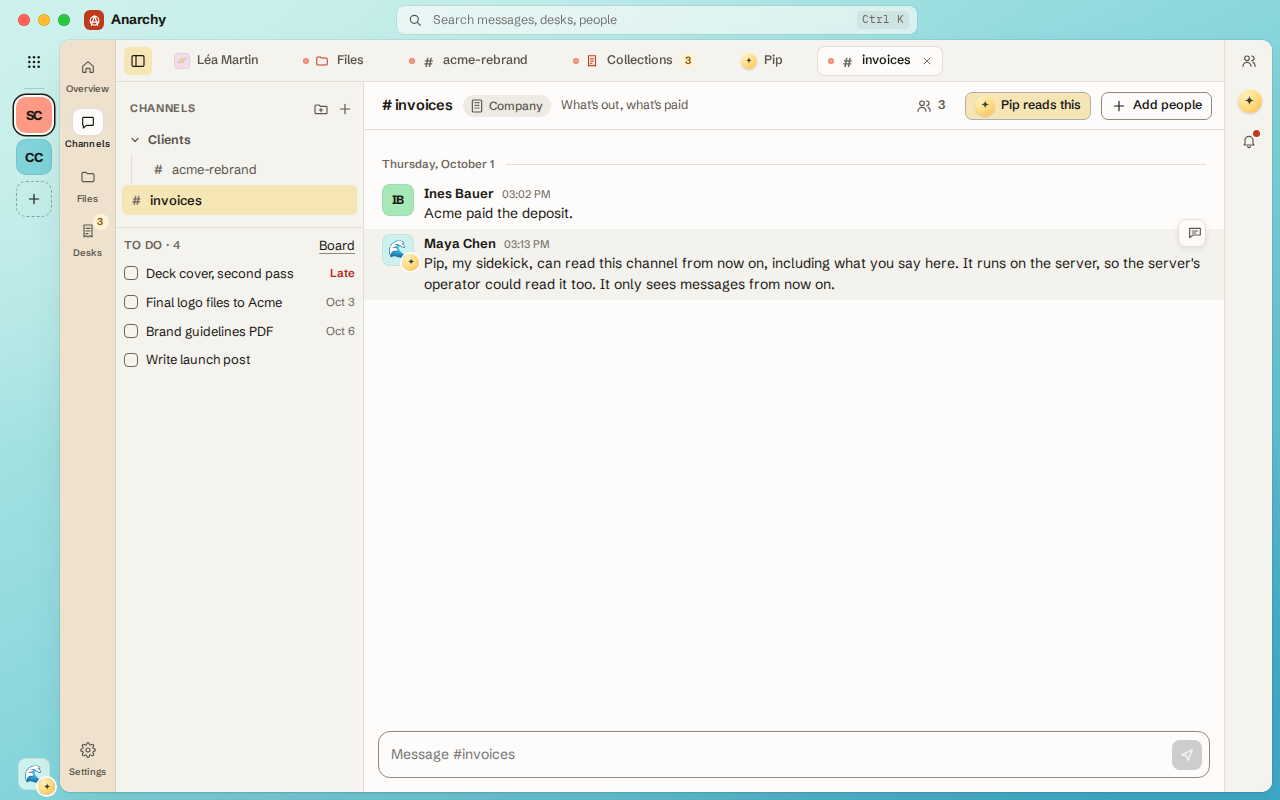
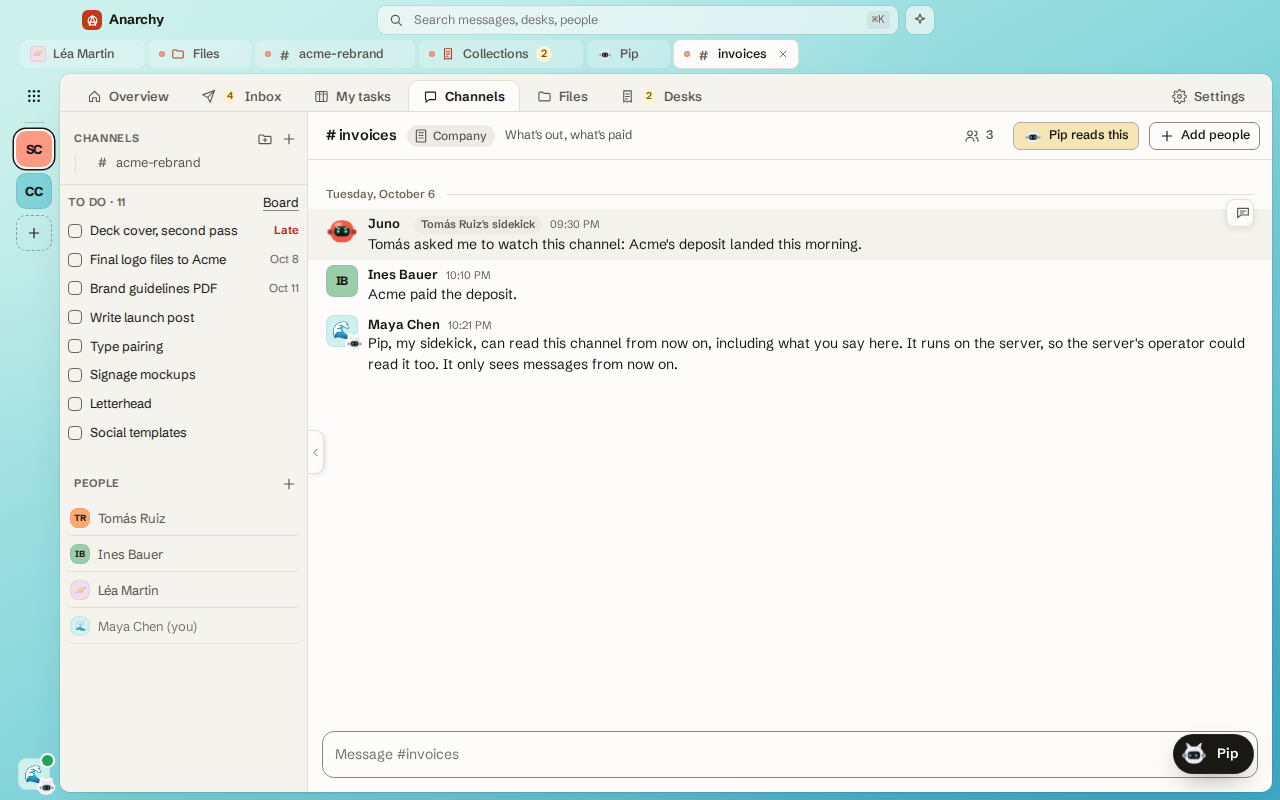
Tabs in the title bar, sidebar edge handle, connect card, Windows build
- Open tabs move into a second title-bar row that unfolds when a tab is
  open and folds away when none is; the old tab row in the canvas is gone.
- The sidebar opens and closes from a handle on its right edge (at the
  canvas edge when closed); Ctrl+\ does the same.
- Inbox uses a paper-plane icon.
- Connecting a server from inside the app opens the sign-in steps in a
  card over the app instead of the first-run page.
- Empty states for Notes and the agenda; the Windows/Linux title bar keeps
  search centred.
- Windows installers (NSIS + MSI) built in CI on app changes; icon.ico
  added for the Windows resource.

Claude-Session: https://claude.ai/code/session_01JqRrPLnBLMGeUFp3LTktD7

Changed region(s): [[0.0, 0.0, 1.0, 1.0], [0.9062, 0.9062, 1.0, 1.0], [0.25, 0.9375, 0.4062, 0.9688]]

diff --git a/apps/desktop/ui/app.css b/apps/desktop/ui/app.css
@@ -222,8 +222,6 @@ p { margin: 0; }
 .workspace { position: relative; display: grid; grid-template-columns: minmax(0, 1fr) 48px; grid-template-rows: auto minmax(0, 1fr); grid-template-areas: "folders tools" "main tools"; min-height: 0; overflow: hidden; }
 .workspace > .tools { grid-area: tools; }
 .workspace.no-tools { grid-template-columns: minmax(0, 1fr) 0; }
-.workspace.no-tools > .folders { border-radius: var(--radius-lg) var(--radius-lg) 0 0; }
-.workspace > .folders { grid-area: folders; }
 .workspace > .main { grid-area: main; }
 .sidebar { display: flex; flex-direction: column; min-height: 0; border-right: 1px solid var(--border); background: color-mix(in srgb, var(--surface-sunken) 55%, var(--surface)); border-radius: var(--radius-lg) 0 0 var(--radius-lg); }
 .side { flex: 1; display: flex; flex-direction: column; min-height: 0; }
@@ -750,7 +748,6 @@ form.start-card { cursor: default; }
 .tool-dot { position: absolute; top: 6px; right: 6px; width: 7px; height: 7px; border-radius: 50%; background: var(--primary); box-shadow: 0 0 0 2px var(--surface); }
 
 /* Folder tabs sit on the canvas's top edge; the open one is part of the page below. */
-.folders { display: flex; align-items: flex-end; gap: 12px; min-width: 0; height: 42px; padding: 0 10px 0 8px; background: color-mix(in srgb, var(--surface-sunken) 55%, var(--surface)); border-bottom: 1px solid var(--border); border-radius: var(--radius-lg) 0 0 0; }
 .folder-tabs { display: flex; align-items: flex-end; gap: 2px; flex: none; margin-bottom: -1px; }
 .folder { position: relative; display: flex; align-items: center; gap: 7px; height: 34px; padding: 0 14px; border: 1px solid transparent; border-bottom: 0; border-radius: 10px 10px 0 0; background: transparent; color: var(--ink-muted); font: inherit; font-size: 13px; font-weight: 540; cursor: pointer; white-space: nowrap; }
 .folder svg.i { width: 15px; height: 15px; }
@@ -758,9 +755,6 @@ form.start-card { cursor: default; }
 .folder.active { background: var(--surface); color: var(--ink); font-weight: 620; border-color: var(--border); }
 .folder.active::after { content: ""; position: absolute; left: 0; right: 0; bottom: -1px; height: 2px; background: var(--surface); }
 .folder .tab-badge, .folder .unread-dot { margin-left: 2px; }
-.folders .tab-list { align-self: center; padding-left: 12px; border-left: 1px solid var(--border); height: 28px; }
-.folders .tab { flex: 0 0 auto; max-width: 180px; min-width: 0; }
-.folders .tab-list { overflow-x: auto; mask-image: linear-gradient(to right, #000 calc(100% - 24px), transparent); }
 
 .drawer { position: absolute; top: 0; left: 0; bottom: 0; width: 280px; z-index: 25; display: flex; flex-direction: column; min-height: 0; background: color-mix(in srgb, var(--surface-sunken) 35%, var(--surface)); border-right: 1px solid var(--border); border-radius: 0; box-shadow: 18px 0 36px -26px rgb(0 0 0 / .35); animation: from-left .16s ease-out; }
 .drawer.pinned { box-shadow: none; animation: none; z-index: 5; }
@@ -906,7 +900,6 @@ svg.i.flip { transform: scaleX(-1); }
 .folder:hover { background: color-mix(in srgb, var(--ink) 17%, var(--surface-sunken)); color: var(--ink); }
 .folder.active { background: var(--surface); color: var(--ink); border-color: var(--border); }
 .folder .tab-badge.warn { background: var(--public); color: #fff; }
-.folders .tab-list { border-left: 0; padding-left: 2px; }
 /* Every icon on the top edge sits on one line: rail, sidebar toggle, sections, right strip. */
 .tools { padding-top: 4px; }
 .rail { padding-top: 4px; }
@@ -1124,9 +1117,6 @@ svg.i.flip { transform: scaleX(-1); }
 .sections.pages .section { justify-items: start; padding: 8px 10px; font-size: 13px; font-weight: 540; }
 .sections.pages .section.active { background: var(--surface); box-shadow: 0 0 0 1px var(--border); }
 /* The top row is only the working set now. */
-.folders { border-radius: 0; align-items: center; gap: 8px; }
-.workspace.no-tools > .folders { border-radius: 0 var(--radius-lg) 0 0; }
-.folders .tab-list { flex: 1; height: 30px; }
 .spaceset-page { overflow-y: auto; padding: 28px 32px; }
 .spaceset-page > * { max-width: 560px; }
 .spaceset-page .spaceset { padding: 0; }
@@ -1518,9 +1508,6 @@ button.sm-row:hover { background: rgba(255,255,255,.07); }
 .workspace.no-tools { grid-template-columns: minmax(0, 1fr); }
 .workspace > .tools { display: none; }
 .workspace:has(> .sections.pages) { grid-template-columns: auto minmax(0, 1fr); grid-template-rows: auto minmax(0, 1fr); grid-template-areas: "sections folders" "sections main"; }
-.workspace > .folders { border-bottom: 0; border-radius: var(--radius-lg) var(--radius-lg) 0 0; height: 40px; align-items: center; }
-.workspace:has(> .sections.pages) > .folders { border-bottom: 1px solid var(--border); border-radius: 0 var(--radius-lg) 0 0; }
-.workspace:has(> .sections.pages) > .folders .tab-list { display: none; }
 /* The section strip: folder tabs that open onto the page below. */
 .sections:not(.pages) { flex-direction: row; align-items: flex-end; width: auto; height: 38px; padding: 0 12px; gap: 4px; border-right: 0; border-bottom: 1px solid var(--border); border-radius: 0;
   background: color-mix(in srgb, var(--surface-sunken) 55%, var(--surface)); overflow-x: auto; scrollbar-width: none; }
@@ -1568,5 +1555,52 @@ button.sm-row:hover { background: rgba(255,255,255,.07); }
 .main.dock-right { padding-right: 360px; }
 .main > .ask { will-change: clip-path; }
 @media (prefers-reduced-motion: reduce) { .ask-bubble { transition: none; } }
-/* No open tabs and no sidebar button: the working-set row shrinks to a sliver. */
-.workspace > .folders:not(:has(.tab)):not(:has(#tool-chats:not([hidden]))) { height: 10px; }
+
+/* ---------- Tabs in the title bar, the sidebar's handle (D48) ----------
+   The working set lives in a second title-bar row that unfolds when something
+   is open and folds away when nothing is, so an empty window has no gap. The
+   sidebar opens and closes from a handle on its right edge. */
+.titlebar { grid-template-rows: 40px auto; height: auto; row-gap: 0; }
+.tb-tabs { grid-column: 1 / -1; display: grid; grid-template-rows: 0fr; min-width: 0; opacity: 0; transition: grid-template-rows .22s cubic-bezier(.2, .8, .3, 1), opacity .18s; }
+.tb-tabs > .tab-list { min-height: 0; overflow: hidden; padding: 0 8px; mask-image: linear-gradient(to right, #000 calc(100% - 24px), transparent); }
+.frame:has(#app:not([hidden])):not(:has(.sections.pages)) .tb-tabs:has(.tab) { grid-template-rows: 1fr; opacity: 1; }
+.frame:has(#app:not([hidden])):not(:has(.sections.pages)) .tb-tabs:has(.tab) > .tab-list { padding-bottom: 6px; overflow-x: auto; }
+.tb-tabs .tab { flex: 0 0 auto; max-width: 200px; min-width: 0; }
+.tb-tabs .tab:not(.active) { background: color-mix(in srgb, var(--surface) 28%, transparent); }
+[data-theme="luna"] .tb-tabs .tab:not(.active) { color: #fff; }
+@media (prefers-reduced-motion: reduce) { .tb-tabs { transition: none; } }
+
+/* The canvas: sections on top, the page below (settings: pages on the left). */
+.workspace { grid-template-rows: auto minmax(0, 1fr); grid-template-areas: "sections" "main"; }
+.workspace:has(> .sections.pages) { grid-template-rows: minmax(0, 1fr); grid-template-areas: "sections main"; }
+.sections:not(.pages) { border-radius: var(--radius-lg) var(--radius-lg) 0 0; }
+
+.side-handle { position: absolute; top: 50%; left: 0; z-index: 30; display: grid; place-items: center; width: 16px; height: 44px; padding: 0; margin-top: -22px;
+  border: 1px solid var(--border); border-left: 0; border-radius: 0 9px 9px 0; background: var(--surface); color: var(--ink-faint); cursor: pointer;
+  box-shadow: 2px 1px 6px -3px rgb(26 24 20 / .25); transition: left .2s cubic-bezier(.2, .8, .3, 1), color .12s, width .12s; }
+.side-handle:hover { color: var(--ink); width: 20px; }
+.side-handle svg.i { width: 13px; height: 13px; transition: transform .2s; }
+.side-handle .tool-dot { top: 4px; right: 3px; width: 6px; height: 6px; }
+.main.side-open > .side-handle { left: 248px; }
+.main.side-open > .side-handle svg.i { transform: rotate(180deg); }
+.side-handle[hidden] { display: none; }
+@media (prefers-reduced-motion: reduce) { .side-handle, .side-handle svg.i { transition: none; } }
+
+/* The connect card: sign-in steps over the app instead of the first-run page. */
+.connect-card { position: relative; width: 420px; padding: 22px 24px; }
+.connect-x { position: absolute; top: 14px; right: 14px; }
+.connect-body #account-back { display: none; }
+.connect-body .auth-step h1 { padding-right: 32px; }
+.connect-body .auth-step { max-width: none; gap: 12px; }
+.connect-body .auth-step h1 { font-size: 19px; }
+.connect-body .auth-step .sub { font-size: 13px; }
+/* Without the lights the grid loses a column: keep search in the middle. */
+[data-os="windows"] .titlebar, [data-os="linux"] .titlebar { grid-template-columns: auto 1fr auto; }
+/* Empty states the audit found missing (D48). */
+.note-none { align-content: center; flex: 1; padding: 40px 24px; text-align: center; }
+.note-none p { max-width: 320px; }
+.note-none svg.i { color: var(--ink-faint); }
+.agenda-empty { display: flex; align-items: center; gap: 8px; margin: 0 22px 12px; padding: 8px 12px; border: 1px dashed var(--border); border-radius: var(--radius-md); color: var(--ink-muted); }
+.agenda-empty svg.i { width: 15px; height: 15px; flex: none; }
+.agenda-empty[hidden], .note-none[hidden] { display: none; }
+.inbox-empty .btn-ink svg.i { width: 14px; height: 14px; color: inherit; }

diff --git a/apps/desktop/ui/app.js b/apps/desktop/ui/app.js
@@ -223,7 +223,7 @@ function openSignIn() {
 $("go-signin").addEventListener("click", openSignIn);
 $("go-local").addEventListener("click", () => { setError("local-error", ""); authStep("s-local"); });
 $("local-back").addEventListener("click", () => authStep("s-welcome"));
-$("account-back").addEventListener("click", () => { if (connecting) { connecting = false; showApp(); } else authStep("s-welcome"); });
+$("account-back").addEventListener("click", () => { if (connecting) { connecting = false; if (!closeConnectCard()) showApp(); } else authStep("s-welcome"); });
 $("s-local").addEventListener("submit", async (e) => {
   e.preventDefault();
   const name = $("local-name").value.trim();
@@ -236,9 +236,33 @@ $("s-local").addEventListener("submit", async (e) => {
 // From inside the app: sign in to a server and bring the local account along.
 function connectServer() {
   if (tour) return endTour();
-  connecting = true;
-  showAuth();
+  openConnectCard();
 }
+// From inside the app the sign-in steps run in a card over it, not on the
+// first-run page: the same forms and handlers, moved into the dialog (D48).
+const CONNECT_STEPS = ["s-account", "s-server", "s-invite", "s-anon", "s-guest"];
+let connectHome = null;
+function openConnectCard() {
+  connecting = true;
+  connectHome = $("s-account").parentNode;
+  $("connect-body").append(...CONNECT_STEPS.map($));
+  $("dlg-connect").showModal();
+  openSignIn();
+}
+function closeConnectCard() {
+  if (!connectHome) return false;
+  connectHome.append(...CONNECT_STEPS.map($));
+  connectHome = null;
+  if ($("dlg-connect").open) $("dlg-connect").close();
+  return true;
+}
+$("connect-x").addEventListener("click", () => $("dlg-connect").close());
+$("dlg-connect").addEventListener("close", () => {
+  if (!connectHome) return;
+  if (!$("sso-waiting").hidden) invoke("cancel_sign_in").catch(() => {});
+  connecting = false;
+  closeConnectCard();
+});
 $("local-connect").addEventListener("click", connectServer);
 
 // ---------- the tour (D38) ----------
@@ -433,10 +457,13 @@ $("s-guest").addEventListener("submit", async (e) => {
 });
 
 async function afterSignIn() {
+  const fromCard = closeConnectCard();
   connecting = false;
   status = await invoke("status");
   profile = status.profile;
   if (profile?.onboarded) return showApp();
+  // Connected from the card, but the account still needs setting up: finish on the full page.
+  if (fromCard) { show("app", false); show("auth"); }
   draft = { usage: profile?.usage || null, display_name: profile?.display_name || "", username: profile?.username || "", tag: profile?.tag || 0, color: profile?.color || "ember", avatar: profile?.avatar, sidekick: profile?.sidekick || "" };
   paintArt({ ...profile, ...draft });
   try { spaces = await invoke("spaces"); } catch { spaces = []; }
@@ -1021,12 +1048,11 @@ function renderTabs() {
       lead, el("span", { class: "tab-name", text: name }), status,
       el("button", { class: "tab-x", type: "button", "aria-label": `Close ${name}`, onclick: (e) => closeTab(t, e) }, icon("x")));
   }));
-  show("tabs", true);
   renderFolders();
   show("tool-chats-dot", !pinned && drawer !== "chats" && channels.some((c) => c.unread && c.id !== current && belongsHere(c)));
 }
 document.addEventListener("keydown", (e) => {
-  if ((e.ctrlKey || e.metaKey) && e.key === "\\") { e.preventDefault(); if (pinned) { pinned = false; writeStore("anarchy.chatsPinned", false); closeDrawers(); } else toggleDrawer("chats"); }
+  if ((e.ctrlKey || e.metaKey) && e.key === "\\") { e.preventDefault(); if (!$("tool-chats").hidden) $("tool-chats").click(); }
   else if ((e.ctrlKey || e.metaKey) && e.key.toLowerCase() === "w" && current) { e.preventDefault(); const t = tabs.find((x) => tabKey(x) === activeTabKey()); if (t) closeTab(t); }
 });
 
@@ -1073,7 +1099,6 @@ function renderFolders() {
   $("section-foot").replaceChildren(...(view === "space" && currentSpace ? [item({ key: "spaceset", label: "Settings", icon: "settings", active: sectionNow() === "spaceset", go: openSpaceSettings })] : []));
   $("sections").classList.toggle("pages", view === "settings");
   paintSide();
-  show("tab-list", view !== "settings");
   show("tools", view !== "settings");
   $("workspace").classList.toggle("no-tools", view === "settings");
 }
@@ -1265,6 +1290,7 @@ function paintDrawers() {
   if (chatsOn) show("tool-chats-dot", false);
   show("drawer-chats", chatsOn);
   show("tool-chats", chatSection);
+  $("main").classList.toggle("side-open", chatsOn);
   $("workspace").classList.toggle("chats-pinned", chatsOn && pinned);
   $("tool-people").setAttribute("aria-expanded", String(drawer === "people"));
   // Docked: the button collapses it. Popped over: the same button docks it.
@@ -1275,12 +1301,13 @@ function paintDrawers() {
     b.firstElementChild.firstElementChild.setAttribute("href", pinned ? "#i-sidebar" : "#i-pin");
   }
   $("tool-chats").setAttribute("aria-pressed", String(pinned));
-  $("tool-chats").title = pinned ? "Hide the sidebar (Ctrl \\)" : "Show the sidebar (Ctrl \\)";
+  $("tool-chats").title = chatsOn ? "Hide the sidebar (Ctrl \\)" : "Show the sidebar (Ctrl \\)";
 }
 // Docked: hide it. Hidden: pop it over (pin it from there to dock it again).
+// The handle: open docks the sidebar; closed collapses it, wherever it was.
 $("tool-chats").addEventListener("click", () => {
-  if (pinned) { pinned = false; writeStore("anarchy.chatsPinned", false); closeDrawers(); }
-  else toggleDrawer("chats");
+  if (pinned || drawer === "chats") { pinned = false; writeStore("anarchy.chatsPinned", false); closeDrawers(); }
+  else { pinned = true; writeStore("anarchy.chatsPinned", true); paintDrawers(); }
 });
 $("tool-people").addEventListener("click", () => toggleDrawer("people"));
 $("tool-notifs").addEventListener("click", () => toggleDrawer("notifs"));
@@ -1863,6 +1890,7 @@ function renderAgenda() {
   const ref = agenda.mode === "week" ? mondayOf(c) : (now.getMonth() === c.getMonth() && now.getFullYear() === c.getFullYear() ? now : new Date(c.getFullYear(), c.getMonth(), 1, 12));
   $("agenda-kind").textContent = `Agenda · Week ${weekNumber(ref)}`;
   for (const b of document.querySelectorAll(".agenda-mode button")) b.setAttribute("aria-selected", String(b.dataset.mode === agenda.mode));
+  show("agenda-empty", !events().length && !agenda.dues.length);
   const heads = [...Array(7)].map((_, k) => { const d = mondayOf(new Date()); d.setDate(d.getDate() + k); return el("div", { class: "cal-dow", text: weekdayFmt.format(d) }); });
   const grid = $("cal-grid");
   grid.className = `cal-grid ${agenda.mode}`;
@@ -1998,6 +2026,7 @@ function renderNoteList() {
     el("span", { class: "note-emoji", text: p.icon || "📝" }), el("span", { class: "lines" }, el("span", { class: "name", text: p.title || "Untitled" }), el("small", { text: p.updated ? sinceFmt(p.updated) : "" })))));
   show("no-notes", list.length === 0);
 }
+$("note-first").addEventListener("click", () => $("note-new").click());
 $("note-search").addEventListener("input", () => { notesState.query = $("note-search").value; renderNoteList(); });
 $("note-new").addEventListener("click", async () => {
   flushNote();
@@ -2008,6 +2037,8 @@ $("note-new").addEventListener("click", async () => {
 });
 function renderNote() {
   show("note-page", !!note);
+  show("note-none", !note && !pages().length && !notesState.query);
+  if (!note) show("note-delete", false);
   if (!note) {
     $("note-crumbs").replaceChildren(el("span", { text: notesState.shared ? notesState.shared.name : "Notes" }));
     $("note-blocks").replaceChildren();
@@ -4261,7 +4292,7 @@ $("home-notifs-read").addEventListener("click", () => markRead(notifItems().map(
 // are worked out here, as before. Archive and snooze are yours and sync with
 // your folders.
 let mails = [], mailAcct = null, inboxSel = null, inboxFolderSel = "all", inboxQuery = "", mailBusy = false;
-const IBX_FOLDERS = [["all", "Everything", "bell"], ["mail", "Mail", "mail"], ["mention", "Mentions", "at"], ["msg", "Conversations", "chat"], ["due", "Due", "clock"], ["desk", "Desks", "receipt"], ["event", "Agenda", "calendar"], ["snoozed", "Snoozed", "clock"], ["archived", "Archived", "check"]];
+const IBX_FOLDERS = [["all", "Everything", "plane"], ["mail", "Mail", "mail"], ["mention", "Mentions", "at"], ["msg", "Conversations", "chat"], ["due", "Due", "clock"], ["desk", "Desks", "receipt"], ["event", "Agenda", "calendar"], ["snoozed", "Snoozed", "clock"], ["archived", "Archived", "check"]];
 function ibxState() { org.inbox ??= { archived: {}, snoozed: {} }; return org.inbox; }
 function mailItem(m) {
   return { key: `mail:${m.uid}`, kind: "mail", mail: m, icon: "mail", from: m.from_name || m.from_addr || "Unknown sender", title: m.subject || "(no subject)", sub: (m.text || "").replace(/\s+/g, " ").slice(0, 160), atMs: m.date_ms, unread: !m.seen };
@@ -4296,7 +4327,7 @@ function inboxShown() {
 }
 function inboxFolder() {
   const n = inboxItems().filter((x) => x.unread).length;
-  return { key: "inbox", label: "Inbox", icon: "bell", n };
+  return { key: "inbox", label: "Inbox", icon: "plane", n };
 }
 async function openInbox() {
   current = null; invoke("blur");

diff --git a/apps/desktop/ui/index.html b/apps/desktop/ui/index.html
@@ -26,6 +26,7 @@
   <symbol id="i-ticket" viewBox="0 0 24 24"><path d="M3 8a2 2 0 0 0 2-2h14a2 2 0 0 0 2 2v2a2 2 0 0 0 0 4v2a2 2 0 0 0-2 2H5a2 2 0 0 0-2-2v-2a2 2 0 0 0 0-4z"/></symbol>
   <symbol id="i-plus" viewBox="0 0 24 24"><path d="M12 5v14M5 12h14"/></symbol><symbol id="i-chevron" viewBox="0 0 24 24"><path d="m9 6 6 6-6 6"/></symbol><symbol id="i-star" viewBox="0 0 24 24"><path d="m12 4 2.4 5 5.4.6-4 3.7 1.1 5.4L12 16l-4.9 2.7 1.1-5.4-4-3.7 5.4-.6z" stroke-linejoin="round"/></symbol><symbol id="i-undo" viewBox="0 0 24 24"><path d="M9 14 4 9l5-5M4 9h10.5a5.5 5.5 0 0 1 0 11H11"/></symbol><symbol id="i-folder-plus" viewBox="0 0 24 24"><path d="M3 7.5A1.5 1.5 0 0 1 4.5 6H9l2 2h8.5A1.5 1.5 0 0 1 21 9.5v8a1.5 1.5 0 0 1-1.5 1.5h-15A1.5 1.5 0 0 1 3 17.5zM12 11v5M9.5 13.5h5"/></symbol>
   <symbol id="i-users" viewBox="0 0 24 24"><circle cx="9" cy="8" r="3.5"/><path d="M3 20a6 6 0 0 1 12 0M16 4.5a3.5 3.5 0 0 1 0 7M18 14a6 6 0 0 1 3 6"/></symbol>
+  <symbol id="i-plane" viewBox="0 0 24 24"><path d="M21.5 2.5 10.6 13.4"/><path d="M21.5 2.5 14.6 21.3l-4-7.9-7.9-4z"/></symbol>
   <symbol id="i-send" viewBox="0 0 24 24"><path d="M4 12 20 4l-6 16-3-7z"/></symbol>
   <symbol id="i-search" viewBox="0 0 24 24"><circle cx="11" cy="11" r="6"/><path d="M20 20l-4-4"/></symbol>
   <symbol id="i-x" viewBox="0 0 24 24"><path d="M6 6l12 12M18 6 6 18"/></symbol>
@@ -100,6 +101,8 @@
         <button type="button" data-win="close" aria-label="Close" title="Close"><svg class="wi"><use href="#i-win-close"/></svg></button>
       </div>
     </div>
+    <!-- The working set: what's open right now. Folds away when nothing is. -->
+    <div class="tb-tabs" id="tabs" data-tauri-drag-region><div class="tab-list" id="tab-list" role="tablist" aria-label="Open" data-tauri-drag-region></div></div>
   </header>
 
   <div class="stage">
@@ -353,13 +356,10 @@
         <span class="spacer"></span>
         <div class="section-list" id="section-foot"></div>
       </nav>
-      <!-- The working set: what's open right now, as tabs. -->
-      <div class="folders" id="tabs">
-        <button class="icon-btn side-toggle" id="tool-chats" type="button" title="Show the sidebar (Ctrl \)" aria-label="Sidebar" aria-expanded="false"><svg class="i"><use href="#i-sidebar"/></svg><span class="tool-dot" id="tool-chats-dot" hidden></span></button>
-        <div class="tab-list" id="tab-list" role="tablist" aria-label="Open"></div>
-      </div>
       <!-- Main -->
       <main class="main" id="main">
+        <!-- The sidebar's edge handle: at its right edge when open, at the canvas's left edge when not. -->
+        <button class="side-handle" id="tool-chats" type="button" title="Show the sidebar (Ctrl \)" aria-label="Sidebar" aria-expanded="false"><svg class="i"><use href="#i-chevron"/></svg><span class="tool-dot" id="tool-chats-dot" hidden></span></button>
         <!-- Chats and channels: pops over from the left, or stays when pinned -->
         <aside class="sidebar drawer" id="drawer-chats" aria-label="Sidebar" hidden>
           <!-- Only in pop-over mode: dock it again -->
@@ -478,6 +478,7 @@
             <div class="navseg agenda-mode" role="tablist" aria-label="View"><button type="button" role="tab" data-mode="day">Day</button><button type="button" role="tab" data-mode="week">Week</button><button type="button" role="tab" data-mode="month">Month</button></div>
             <button class="btn-ink inline" id="event-new" type="button"><svg class="i"><use href="#i-plus"/></svg><span>Add event</span></button>
           </div>
+          <p class="agenda-empty fine" id="agenda-empty" hidden><svg class="i"><use href="#i-calendar"/></svg>Nothing planned yet. Click any day to add something, or use Add event. Tasks with a due date show up here too.</p>
           <div class="agenda-results panel" id="agenda-results" hidden></div>
           <div class="cal-grid" id="cal-grid"></div>
           <form class="quick-event panel" id="quick-event" novalidate hidden>
@@ -511,6 +512,7 @@
           </aside>
           <section class="note-main">
           <div class="note-bar"><nav class="crumbs" id="note-crumbs" aria-label="Where"></nav><span class="spacer"></span><span class="fine" id="note-saved"></span><button class="icon-btn" id="note-delete" type="button" title="Delete page" aria-label="Delete page"><svg class="i"><use href="#i-trash"/></svg></button></div>
+          <div class="inbox-empty note-none" id="note-none" hidden><svg class="i"><use href="#i-note"/></svg><strong>No pages yet</strong><p class="fine">Plans, meeting notes, anything your tasks need. Only your devices can read them.</p><button class="btn-ink sm" id="note-first" type="button"><svg class="i"><use href="#i-plus"/></svg>New page</button></div>
           <div class="note-scroll">
             <article class="note-page" id="note-page">
               <button class="note-icon" id="note-icon" type="button" title="Change icon" aria-label="Change icon"></button>
@@ -832,6 +834,12 @@
 </div>
 
 <!-- ============ Dialogs ============ -->
+<!-- Connecting from inside the app: the sign-in steps move into this card (D48). -->
+<dialog class="modal panel connect-card" id="dlg-connect" aria-labelledby="account-title">
+  <button class="icon-btn connect-x" id="connect-x" type="button" aria-label="Close" title="Close"><svg class="i"><use href="#i-x"/></svg></button>
+  <div class="connect-body" id="connect-body"></div>
+</dialog>
+
 <dialog class="modal panel" id="dlg-phone" aria-labelledby="dlg-phone-title">
   <h2 id="dlg-phone-title">Link a phone</h2>
   <div class="phone-wait" id="phone-wait">

diff --git a/docs/ARCHITECTURE.md b/docs/ARCHITECTURE.md
@@ -251,6 +251,7 @@ mcp_audit(id, client_id, user_id, tool, channels_touched[], ts)
 | D45 | **Tasks lead; the sections move to the top, the right rail goes, and the assistant becomes a bubble.** | Decided 2026-10-06 | After Roma (`docs/ROMA.md`). The sections (Home, Inbox, My tasks, Chats, Agenda, Notes, Files; in a space, Overview to Desks) run along the top of the canvas as folder tabs, under the working set, and open onto the page below; settings keep their pages as a list on the left. The right-hand rail (People, Ask, Notifications) is gone: people are listed under the channels on the left, most present first; notifications are a section on Home, after Today; the assistant is a bubble at the bottom right with the sidekick's face and name that grows into the side panel (a `clip-path` from the bubble's box to the panel's, so text never stretches) and shrinks back into it. With no open tabs, the working-set row shrinks to a sliver. |
 | D46 | **Agents can add and move your tasks, the way Roma's MCP server lets them.** | Decided 2026-10-06 | The bridge (D43) gains `anarchy_get_context` (the orienting first call), `anarchy_list_tasks`, `anarchy_create_tasks` (up to 100, an `external_id` makes re-sending safe, one bad row never fails the batch) and `anarchy_update_task` (status, title, due date, notes; notes append unless `mode: "replace"` with `confirm_replace: true`). A board's columns map onto three statuses: the first is `todo`, done columns `completed`, the rest `inProgress`. Writes go to your own Tasks desk unless a task desk in a Company channel is named; never to a Sealed one. Agents still can't send messages or delete anything. Every tool carries MCP annotations (`readOnlyHint`, `destructiveHint`, `idempotentHint`, `openWorldHint`) so clients ask only before changes; 60 requests a minute; agent-made cards carry `by: "agent"`. This changes D43's "agents read, never write" for tasks only, because a task on your own list is low-stakes and easy to see and undo, which a message to someone else is not. |
 | D47 | **The sidekick is a package of its own, and moves like blobatar.** | Decided 2026-10-06 | `packages/buddy` (`@anarchy/buddy`): `buddy.js` (UMD: a script tag gives `window.Buddy`, a bundler gets the module) and `buddy.css`, no dependencies, with a demo page and tests. It can be dropped anywhere an agent needs a face, like OpenAI's dots or Grok's companions. The app ships a copy in `apps/desktop/ui/buddy/` that CI keeps identical. The idle motion follows blobatar (MIT): a breathe and a bob at periods that never line up, glances that jump and hold, a blink, all timed by seeds from the look so no two Buddies move in step, and scaled by a registered `--bd-amp` that is 1 on live Buddies and eases up from 0 on a badge only while it's pointed at. Badges' loops are paused otherwise. Reduced motion stops all of it. |
+| D48 | **Open tabs live in the title bar; the sidebar has an edge handle; connecting is a card.** | Decided 2026-10-06 | The working set moved out of the canvas into a second title-bar row that unfolds when a tab is open and folds to nothing when none is, so an empty window has no gap. The sidebar opens and closes from a handle on its right edge, which sits at the canvas edge when the sidebar is closed. Inbox uses a paper plane, since it's mostly mail. Connecting a server from inside the app opens the same sign-in steps in a card over the app instead of the first-run page; only an account that still needs setting up goes on to the full page. Notes and the agenda gained empty states. Windows installers (NSIS and MSI) are built by `.github/workflows/windows.yml` on every app change to main. |
 
 ## 12. Open decisions
 

diff --git a/README.md b/README.md
@@ -90,6 +90,14 @@ The sidekick is a package of its own, [`packages/buddy`](packages/buddy): drop i
 |---|---|
 | ![Link a phone](docs/screens/link-phone.png) | ![Approve the phone](docs/screens/link-phone-approve.png) |
 
+| Connecting a server from inside the app | The sidebar closed, its handle at the edge |
+|---|---|
+| ![Connect card](docs/screens/connect-card.png) | ![Sidebar collapsed](docs/screens/sidebar-collapsed.png) |
+
+| An empty agenda | An empty notebook |
+|---|---|
+| ![Empty agenda](docs/screens/empty-agenda.png) | ![Empty notes](docs/screens/empty-notes.png) |
+
 Title bars on Windows and Linux (macOS keeps its own traffic lights):
 
 ![Windows title bar](docs/screens/titlebar-windows.png)
@@ -143,6 +151,15 @@ export ANARCHY_TEST_DATABASE_URL=postgres://postgres:postgres@127.0.0.1:5432/pos
 cargo test                     # E2EE messaging, auth and Brain scoping against a real server
 cargo run -p anarchy-server    # needs DATABASE_URL and OIDC settings, see docs/SELF-HOSTING.md
 cargo run -p anarchy-desktop   # desktop app (Linux needs WebKitGTK, see CONTRIBUTING.md)
+```
+
+**Windows installer.** Every app change on `main` builds one: Actions → *Windows build* → the run → `anarchy-windows-…` (NSIS `.exe` and `.msi`). To build it on your own Windows machine (Rust, plus the WebView2 runtime that Windows 11 already has):
+
+```powershell
+git pull
+cargo install tauri-cli --version "^2" --locked
+cd apps/desktop/src-tauri
+cargo tauri build --bundles nsis   # installer in target\release\bundle\nsis\
 ```
 
 Status: phase 0 in progress (see [docs/ROADMAP.md](docs/ROADMAP.md)).

diff --git a/PLAN.md b/PLAN.md
@@ -18,6 +18,7 @@ The order follows one rule: **fix what stops a new person from using the app wit
 - Tasks lead (D45): sections as folder tabs on top, no right rail, people under the channels, notifications on Home, the assistant as a bubble that grows into the side panel.
 - Agents can add and move tasks, Roma's way (D46, `docs/ROMA.md`).
 - The sidekick is its own package, `packages/buddy`, with blobatar-style idle motion (D47).
+- Open tabs in the title bar, a sidebar edge handle, a connect-a-server card, empty states for Notes and the agenda, and a Windows installer build in CI (D48).
 
 ## 1. A public server people can join (M)
 
